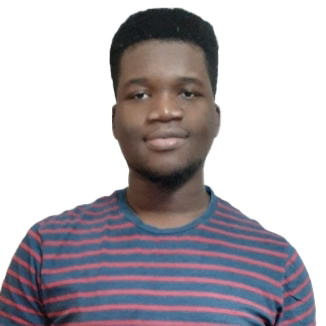
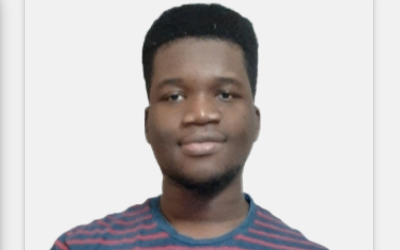
Add files via upload

diff --git a/week1log.html b/week1log.html
@@ -6,16 +6,29 @@
 <meta name="viewport" content="width=device-width, initial-scale=1">
 <link rel="stylesheet" href="https://www.w3schools.com/w3css/4/w3.css">
 <link rel="stylesheet" href="https://fonts.googleapis.com/css?family=Raleway">
+<link rel="stylesheet" href="moreStyles.css">
+
 <style>
 body,h1,h2,h3,h4,h5 {font-family: "Raleway", sans-serif}
 </style>
 <body class="w3-light-grey">
+    <div class="w3-bar w3-white w3-wide w3-padding w3-card">
+        <a href="index.html" class="w3-bar-item w3-button"><b>KC</b> Digifab</a>
+        <!-- Float links to the right. Hide them on small screens -->
+        <div class="w3-right w3-hide-small">
+          <a href="projects.html" class="w3-bar-item w3-button">Projects</a>
+          <a href="about.html" class="w3-bar-item w3-button">About</a>
+        </div>
+      </div>
 
 <!-- w3-content defines a container for fixed size centered content, 
 and is wrapped around the whole page content, except for the footer in this example -->
+
 <div class="w3-content" style="max-width:1400px">
 
 <!-- Header -->
+
+
 <header class="w3-container w3-center w3-padding-32"> 
   <h1><b>Week 1</b></h1>
   <p>Building the websitee</p>
@@ -32,7 +45,7 @@ and is wrapped around the whole page content, except for the footer in this exam
       <h3><b></b></h3>
     </div>
 
-    <div class="w3-container">
+    <div class="w3-container biggerText">
 
         <table>
             <tr> <td><a href="week1log.html"><h3> Building the website</h3></a</td>
@@ -46,15 +59,6 @@ and is wrapped around the whole page content, except for the footer in this exam
         professor Gousie. As a result, I am already proficient in HTML, CSS, and Javascript. 
         very easily.
     </p>
-    <div class="title_text_image">
-        <h3>Setting up github pages</h3>
-        <img>
-        <p>
-            Git however, I have used  once for a project last year, but sucked at it, and that involved using the desktop app, 
-            not the terminal. When I saw the setup proceess for github pages, I was worried about the difficulty of it, but it
-            suprisingly went by easily
-        </p>
-    </div>
       <div class="w3-row">
         <div class="w3-col m8 s12">
         </div>
@@ -66,6 +70,83 @@ and is wrapped around the whole page content, except for the footer in this exam
   <hr>
 
   <!-- Blog entry -->
+
+    <!-- Blog entry -->
+    <div class="w3-card-4 w3-margin w3-white">
+        <div class="w3-container">
+          <h3><b></b></h3>
+        </div>
+    
+        <div class="w3-container biggerText">
+    
+            <div class="title_text_image">
+                <h3>Setting up github pages</h3>
+                <img src="images/github_logo.png" width="250" alt="github logo">
+                <p>
+                    Git however, I have used  once for a project last year, but sucked at it, and that involved using the desktop app, 
+                    not the terminal. When I saw the setup proceess for github pages, I was worried about the difficulty of it, but it
+                    suprisingly went by easily
+                </p>
+            </div>
+            <p> I was able to set everything up initially using the terminal, but eventually, i realised
+                that I could use the things i already learned from using the github desktop app for this project
+            </p>
+            <img alt="screenshot" src="images/github_app_sc.png">
+            
+          <div class="w3-row">
+            <div class="w3-col m8 s12">
+            </div>
+            <div class="w3-col m4 w3-hide-small">
+            </div>
+          </div>
+        </div>
+      </div>
+      <hr>
+    
+      <!-- Blog entry -->
+
+       <!-- Blog entry -->
+
+    <!-- Blog entry -->
+    <div class="w3-card-4 w3-margin w3-white">
+        <div class="w3-container biggerText">
+          <h3><b></b></h3>
+        </div>
+    
+        <div class="w3-container biggerText">
+    
+            <div class="title_text_image">
+                <h3>Working with a template</h3>
+                <img src="" alt="github logo">
+                <p>
+                   For all of my past projects for building websites, everything had to be done
+                   entirely from scratch. This time, since I felt that wasn't a requirment and I 
+                   wanted the site to have a nice feeling quickly, since there was more to this assingment
+                   than just the desing of the site, I decided to try out a template from w3schools.
+                   It was really helpful to have a strong image of what the site will end up looking like from
+                   the start. often, i would spend an unnescary amount of time thinkig about what the site should look like.
+                   A small drawback of using the template was that the code was not my own, so there were many different css classes
+                   I had no idea how to utilize and i might have ended up doing some things in less than optimal ways.
+                </p>
+            </div>
+            <p> I was able to set everything up initially using the terminal, but eventually, i realised
+                that I could use the things i already learned from using the github desktop app for this project
+            </p>
+            <img alt="screenshot" src="images/site_iteration_0.png">
+            <p>this template would serve as the structure for what is now this sire</p>
+            <img alt="screenshot" src="images/site_iteration_2.png">
+            
+          <div class="w3-row">
+            <div class="w3-col m8 s12">
+            </div>
+            <div class="w3-col m4 w3-hide-small">
+            </div>
+          </div>
+        </div>
+      </div>
+      <hr>
+    
+      <!-- Blog entry -->
 <!-- END BLOG ENTRIES -->
 </div>
 
@@ -145,3 +226,5 @@ and is wrapped around the whole page content, except for the footer in this exam
 
 </body>
 </html>
+
+

diff --git a/index.html b/index.html
@@ -10,6 +10,16 @@
 body,h1,h2,h3,h4,h5 {font-family: "Raleway", sans-serif}
 </style>
 <body class="w3-light-grey">
+    
+    
+    <div class="w3-bar w3-white w3-wide w3-padding w3-card">
+    <a href="index.html" class="w3-bar-item w3-button"><b>KC</b> Digifab</a>
+    <!-- Float links to the right. Hide them on small screens -->
+    <div class="w3-right w3-hide-small">
+      <a href="projects.html" class="w3-bar-item w3-button">Projects</a>
+      <a href="about.html" class="w3-bar-item w3-button">About</a>
+    </div>
+  </div>
 
 <!-- w3-content defines a container for fixed size centered content, 
 and is wrapped around the whole page content, except for the footer in this example -->
@@ -26,9 +36,38 @@ and is wrapped around the whole page content, except for the footer in this exam
 
 <!-- Blog entries -->
 <div class="w3-col l8 s12">
+<!-- Blog entry-->
+    <div class="w3-card-4 w3-margin w3-white">
+        <img src="images/digifab_banner.jpg" alt="banner" style="width:100%">
+        <div class="w3-container">
+          <h3><b>Intro to Digital Fabrication</b></h3>
+        </div>
+    
+        <div class="w3-container">
+          <p>Intro to Digital Fabrication is a fast paced multidisciplinary course intended to provide a high level exploration of
+               additive and subtractive manufacturing tools and applications. 
+               Technologies like 3D printing are just the tip of the iceberg when 
+               it comes to analyzing how digital fabrication is transforming our 
+               world. Through engaging hands-on projects, participants will learn 
+               how to navigate Wheaton’s network of labs and leave with a personal
+                portfolio detailing technical accomplishments. The course lectures
+                 are completely asynchronous and the lab schedule is created based
+                  on student and machine availability. There is no standard course meeting time.
+                </p>
+                <span><i>this description may or may not be ripped straight from the course catalog.</i></span>
+          <div class="w3-row">
+            <div class="w3-col m8 s12">
+            </div>
+            <div class="w3-col m4 w3-hide-small">
+            </div>
+          </div>
+        </div>
+      </div>
+<!-- End of Blog entry-->
   <!-- Blog entry -->
   <div class="w3-card-4 w3-margin w3-white">
-    <div class="w3-container">
+    <img src="images/week1banner.png" alt="banner" style="width:100%">
+    <div class="w3-container biggerText">
       <h3><b>Latest weekly update</b></h3>
     </div>
 
@@ -56,26 +95,9 @@ and is wrapped around the whole page content, except for the footer in this exam
   <!-- Blog entry -->
   <div class="w3-card-4 w3-margin w3-white">
     <div class="w3-container">
-      <h3><b>About Me</b></h3>
-      <h5>Kobe Collison <span class="w3-opacity">class of 2023</span></h5>
     </div>
 
-    <div class="w3-container">
-        <p> I am currently a junior. I am majoring in computer science 
-            with a minor in math.Having finished most of my school requirments
-            already, I chose intro to digifab since it seemed like an iteresting 
-          and fun class </p>
-      <div class="w3-row">
-        <div class="w3-col m8 s12">
-          <p><button class="w3-button w3-padding-large w3-white w3-border"><b>READ MORE &raquo;</b></button></p>
-
-        </div>
-        <img src="images/kobe.png" width="150" alt="Norway" style="float: right;">
-
-        <div class="w3-col m4 w3-hide-small">
-        </div>
-      </div>
-    </div>
+    
   </div>
 <!-- END BLOG ENTRIES -->
 </div>
@@ -83,6 +105,16 @@ and is wrapped around the whole page content, except for the footer in this exam
 <!-- Introduction menu -->
 <div class="w3-col l4">
   <!-- About Card -->
+  <div class="w3-card w3-margin w3-margin-top">
+    <img src="images/kobe.png" style="width:100%">
+      <div class="w3-container w3-white">
+        <h4><b>About ME</b></h4>
+        <p>I am currently a junior. I am majoring in computer science 
+            with a minor in math. Having finished most of my school requirments
+            already, I chose intro to digifab since it seemed like an iteresting 
+          and fun class </p>
+      </div>
+    </div>
   <div class="w3-card w3-margin">
     <div class="w3-container w3-padding">
       <h4>Weekly Updates</h4>

diff --git a/moreStyles.css b/moreStyles.css
@@ -1,0 +1,24 @@
+
+.title_text_image {
+    margin: auto;
+    text-align: center;
+}
+
+
+.title_text_image p{
+    text-align: left;
+}
+.title_text_image img{
+    float: left;
+    padding: 0px;
+ 
+}
+
+
+.w3-container img{
+    max-width: 100%;
+}
+
+.biggerText p{
+    font-size: 1.15rem;
+}
